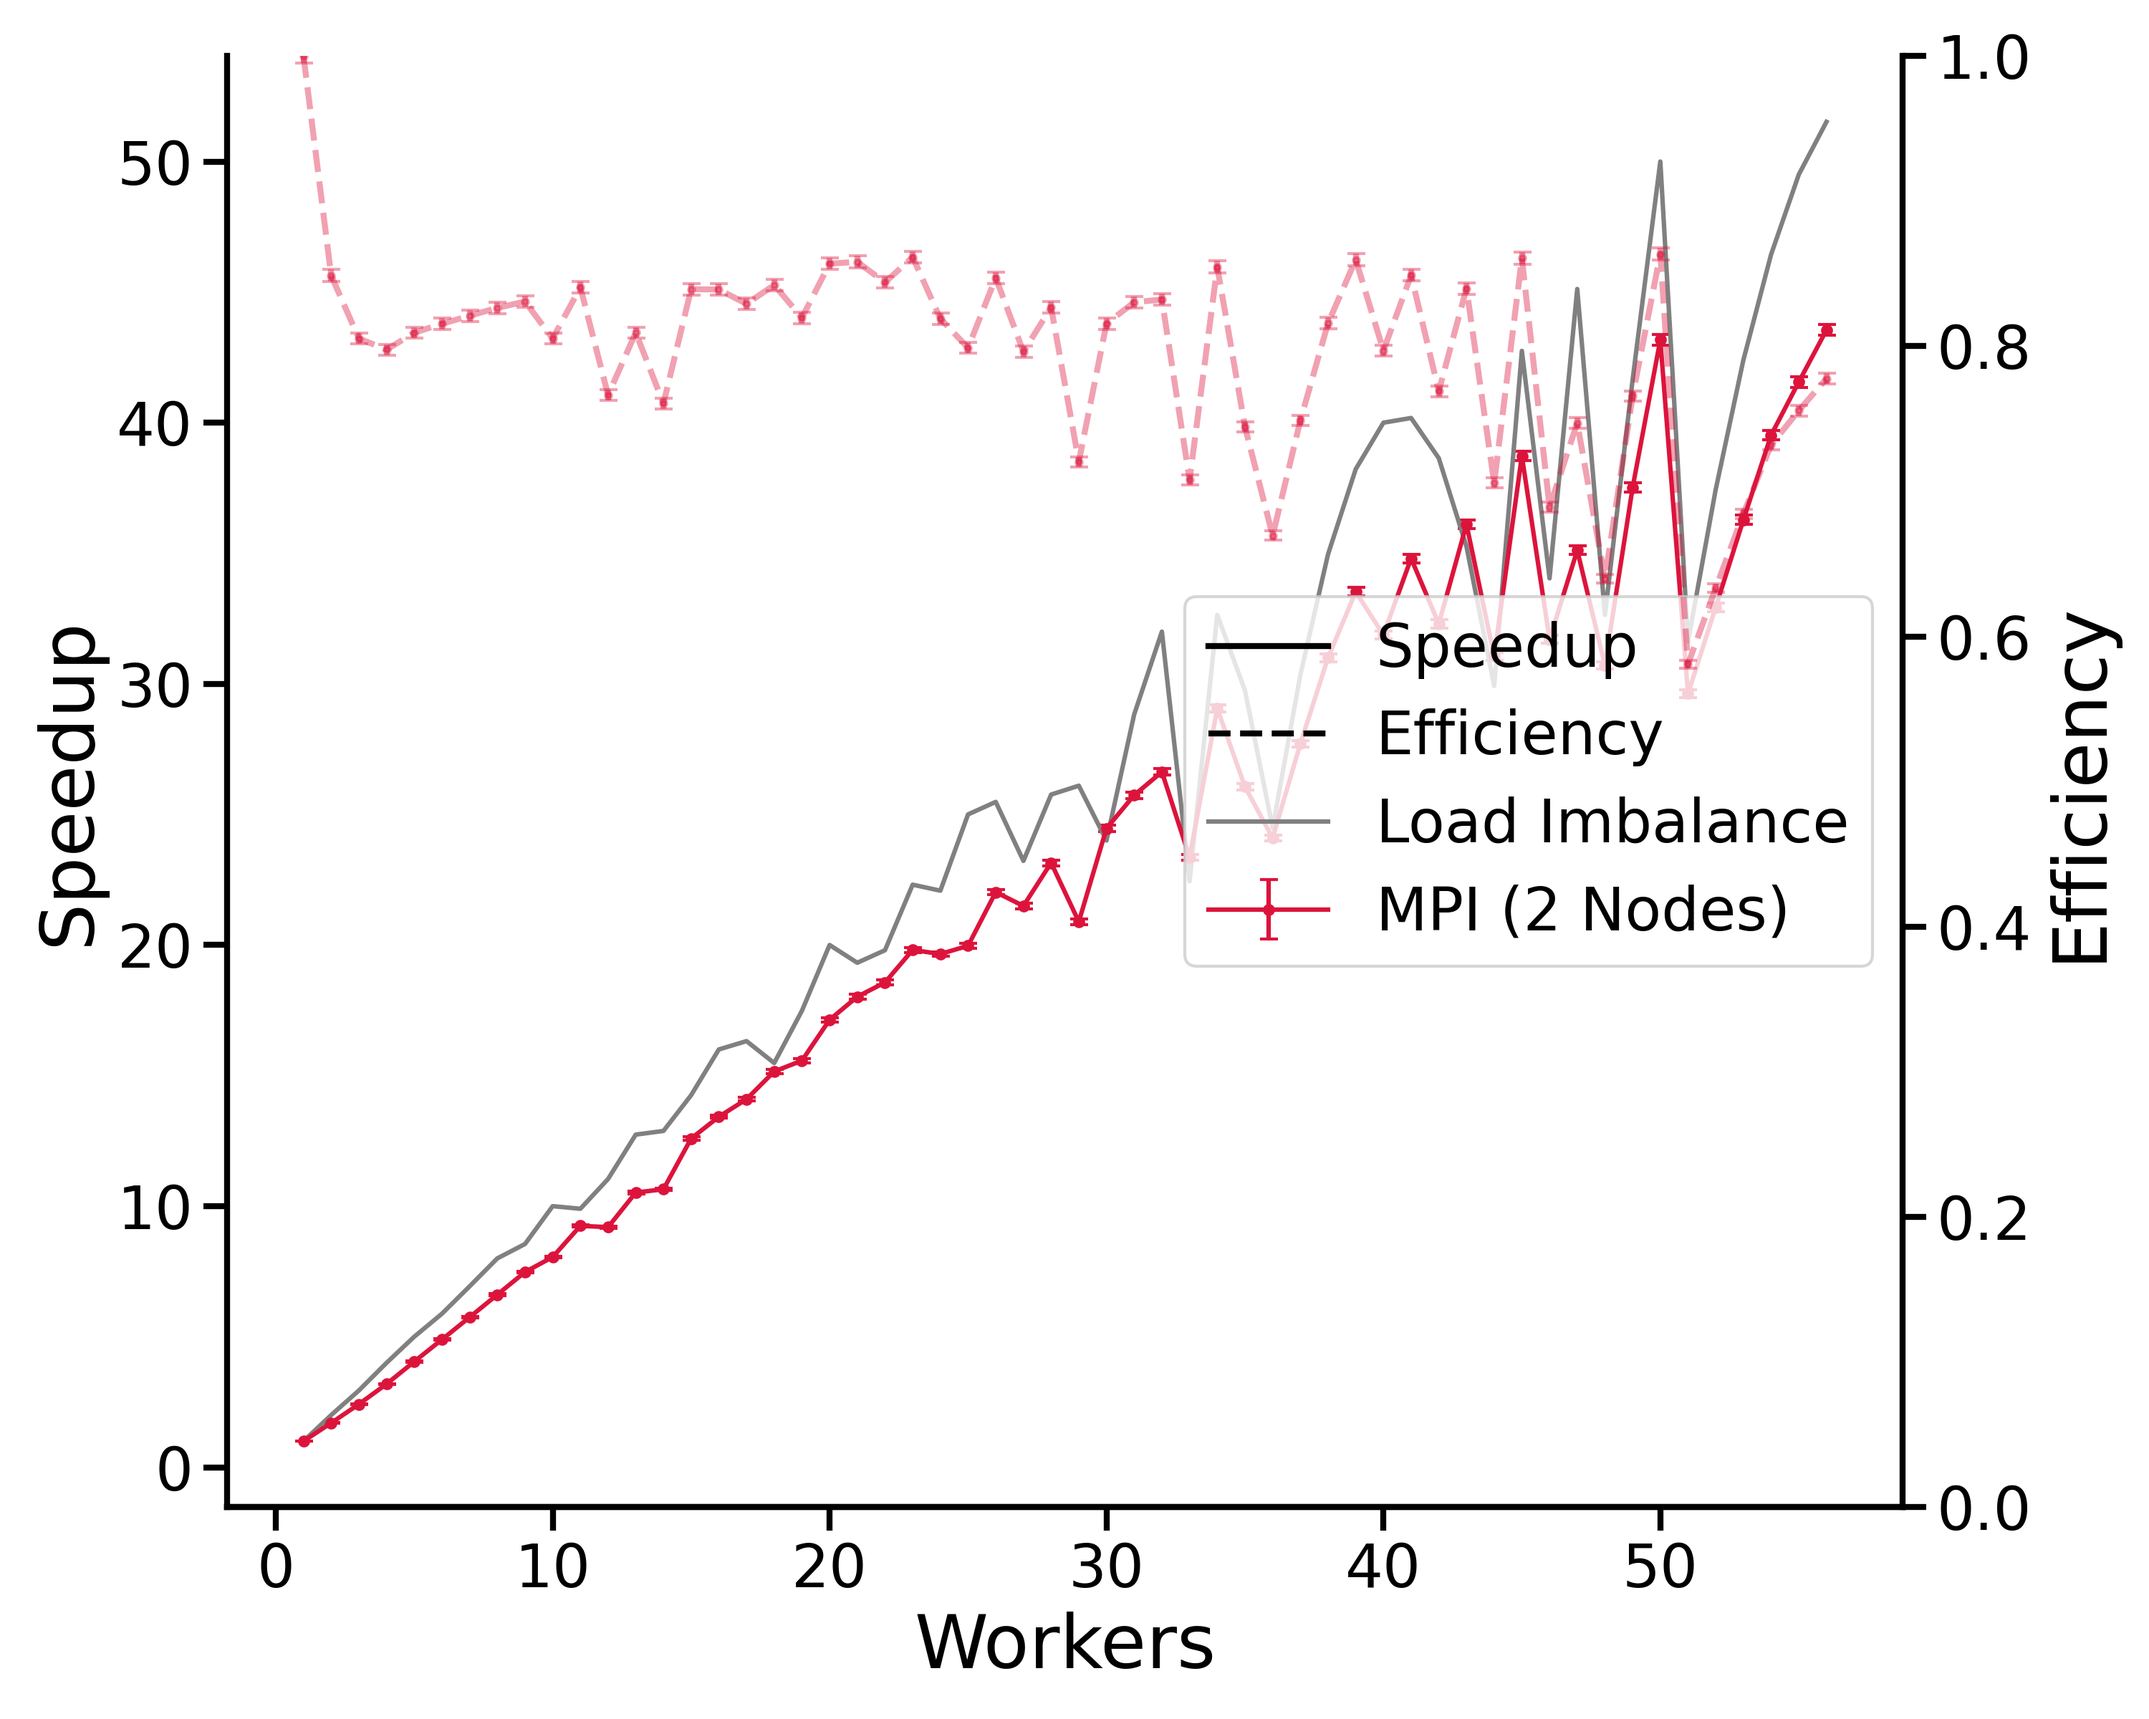
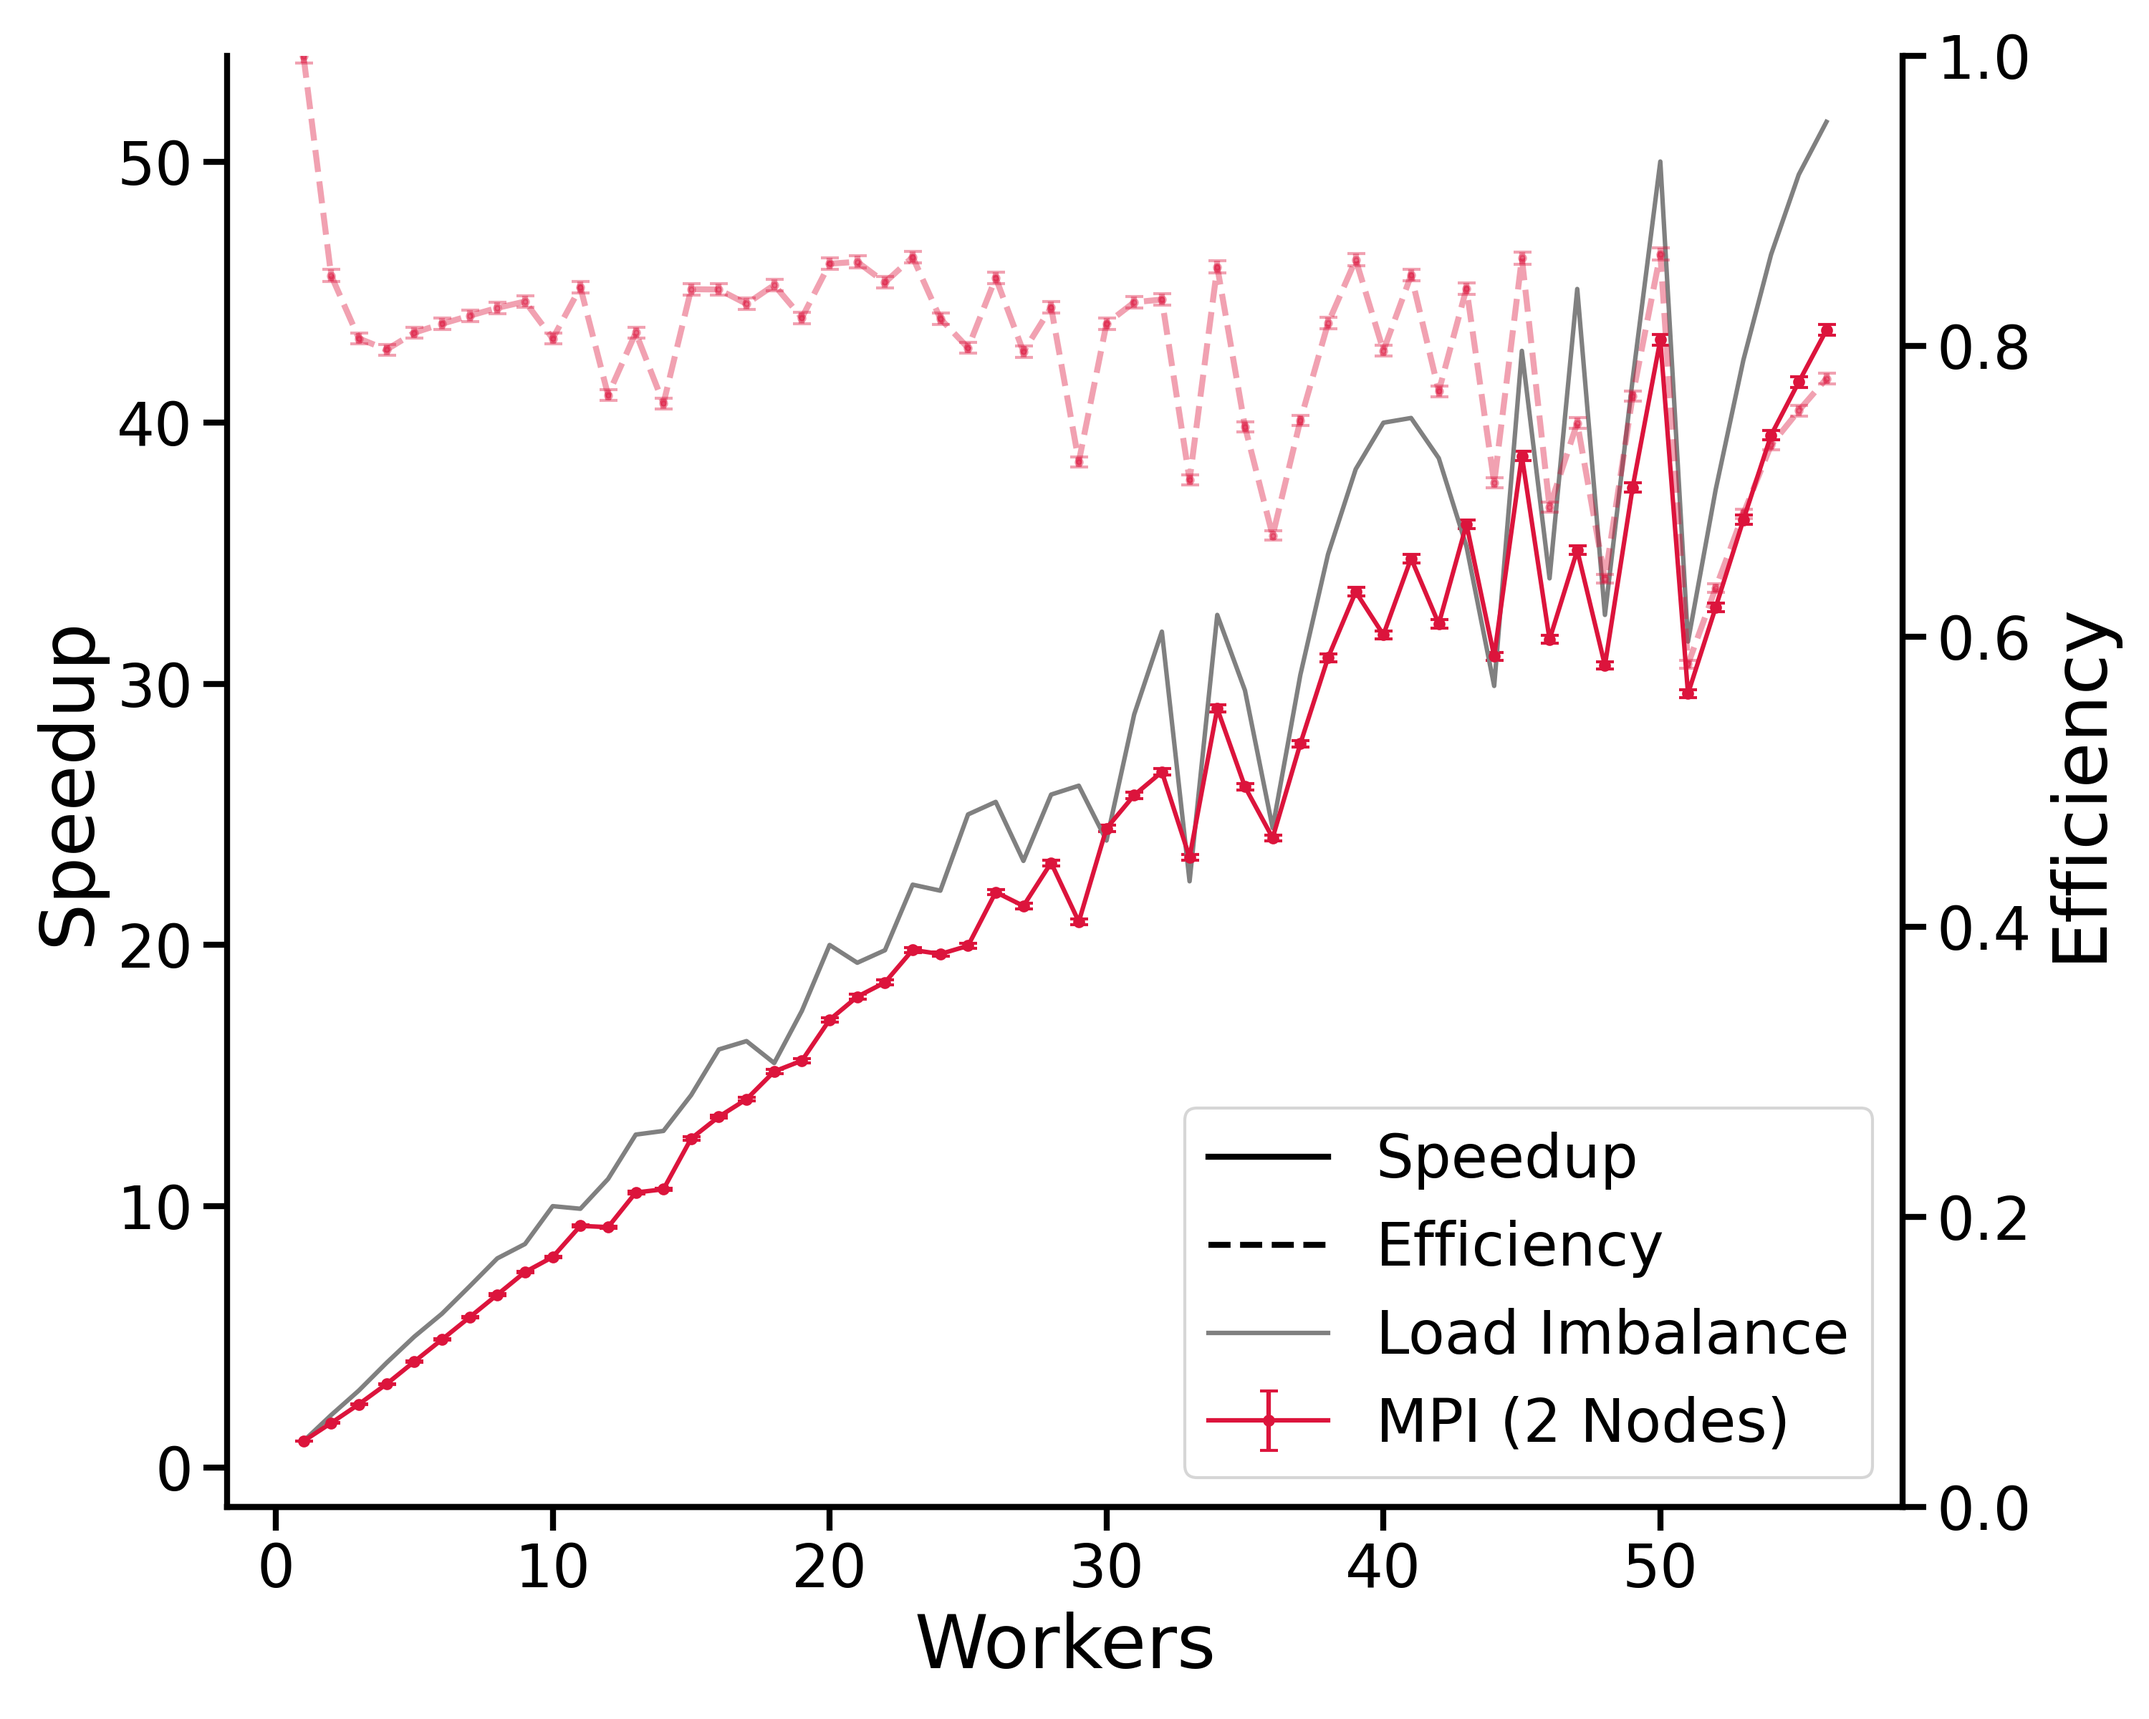
legend no longer blocks python data in sizes plot, automatic positioning of legend in speedup plots

diff --git a/timings_analysis.py b/timings_analysis.py
@@ -453,8 +453,7 @@ def speedup_plot(implementations, max_threads, name, overlays=None):
     ax1.legend(
         custom_lines + lines1 + lines2,
         [line.get_label() for line in custom_lines] + labels1 + labels2,
-        loc='center right',
-        #loc='lower right',
+        loc = 'lower right' if overlays else 'center right',
         fontsize=20
     )
 
@@ -536,7 +535,7 @@ def system_size_plot(system_sizes, implementations):
     for avg_times, std_errors, implementation_name, color in implementations:
         plt.errorbar(
             system_sizes, avg_times, yerr=std_errors, label=implementation_name,
-            linewidth=1.5, color=color, marker="o", markersize=3, capsize=3
+            linewidth=1.5, color=color, marker="o", markersize=3, capsize=3, zorder=3
         )
 
     plt.xlabel(r"System Size ($\mathbf{x}$)", fontsize=25)
@@ -555,7 +554,8 @@ def system_size_plot(system_sizes, implementations):
     ax.set_ylim(0.03, 10000)
     ax.set_xlim(1, 7000)
 
-    plt.legend(fontsize=17)
+    legend = plt.legend(fontsize=17)
+    legend.set_zorder(2)
     plt.grid(axis='y', zorder=0, linewidth=0.5)
     plt.tight_layout()
     plt.savefig("GRAPHS/system_sizes.png", dpi=300)
